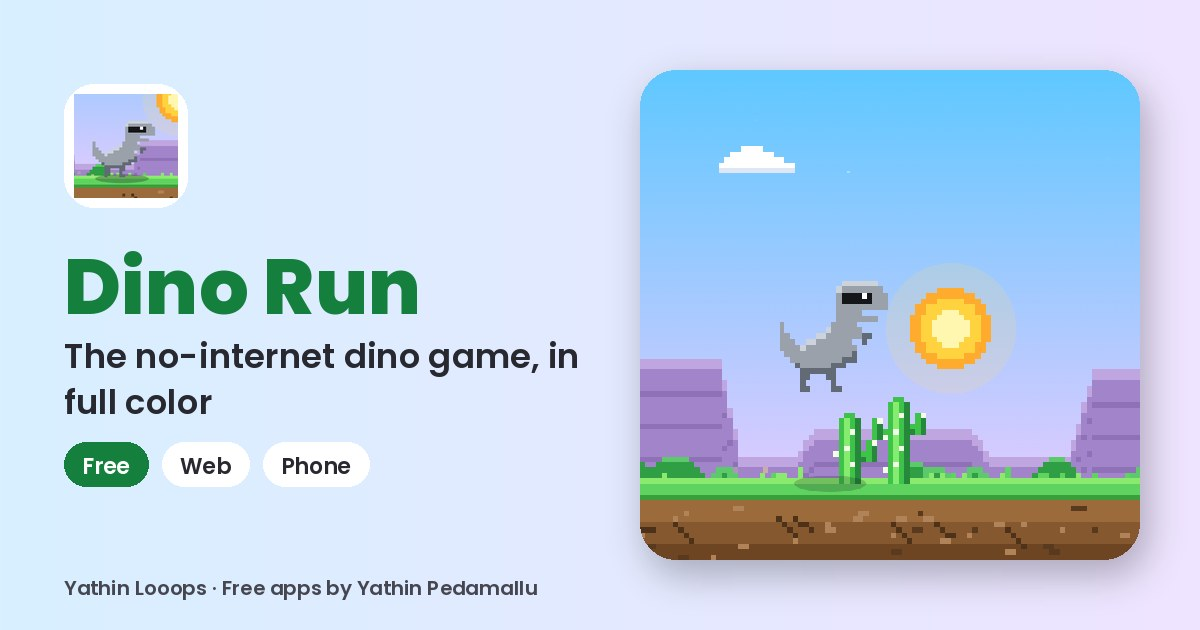
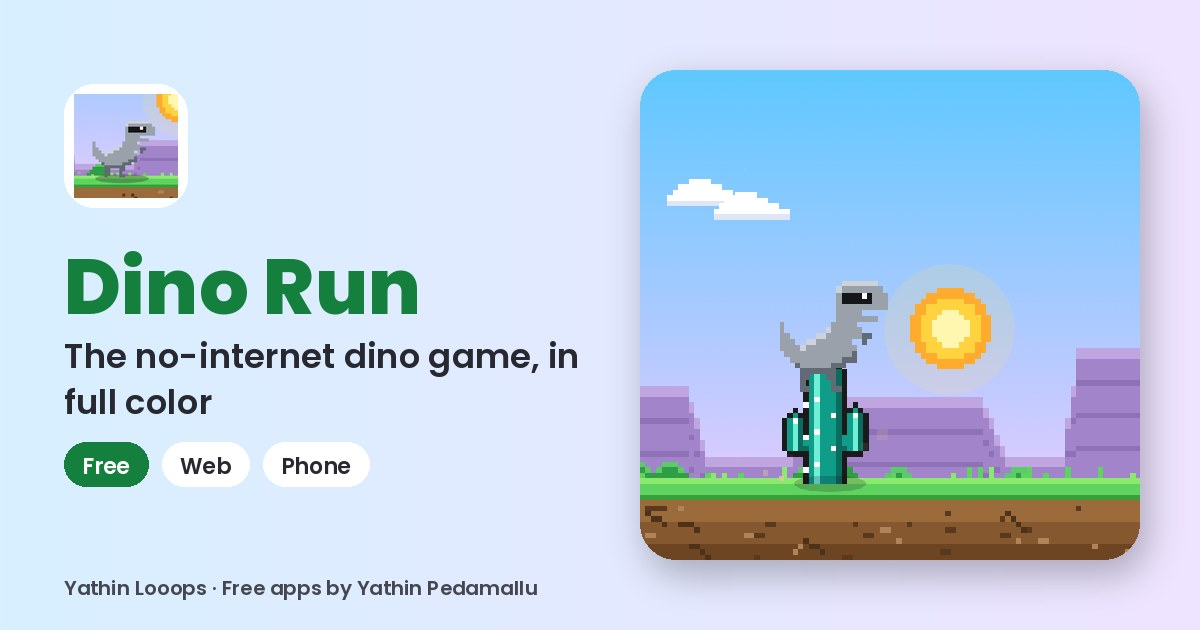
Dino Run: bigger dino explosion, teal outlined cacti, refreshed pictures

diff --git a/dinorun/index.html b/dinorun/index.html
@@ -177,7 +177,7 @@ const BB=[[{x:0,y:8,w:16,h:8},{x:6,y:14,w:44,h:6},{x:22,y:2,w:10,h:12}],[{x:0,y:
 
 function makeCactus(h,tw,nArms,flower){
   const c=document.createElement('canvas'),w=tw+8;c.width=w;c.height=h;const x=c.getContext('2d');
-  const G='#3fc24a',D='#26883a',L='#86ec6f',SP='#f2ffe6',tx=4,boxes=[];
+  const G='#0f9d8a',D='#0a6b5e',L='#6ff0d6',SP='#ffffff',tx=4,boxes=[],armSp=[];
   const col=(px,py,pw,ph)=>{x.fillStyle=G;x.fillRect(px,py,pw,ph);x.fillStyle=D;x.fillRect(px+pw-1,py,1,ph);if(pw>2){x.fillStyle=L;x.fillRect(px+1,py+1,1,ph-1);}x.clearRect(px,py,1,1);x.clearRect(px+pw-1,py,1,1);};
   col(tx,0,tw,h);
   boxes.push({x:tx*2+1,y:2,w:tw*2-2,h:h*2-2});
@@ -187,14 +187,26 @@ function makeCactus(h,tw,nArms,flower){
     const vx=sd<0?tx-aw-1:tx+tw+1,cx=sd<0?vx:tx+tw;
     x.fillStyle=G;x.fillRect(cx,ay,aw+1,aw);x.fillStyle=D;x.fillRect(cx,ay+aw-1,aw+1,1);
     col(vx,ay-al,aw,al+aw);
-    x.fillStyle=SP;x.fillRect(vx+(aw>>1),ay-al+1,1,1);
     const ax0=sd<0?vx:tx+tw,ax1=sd<0?tx:vx+aw;
     boxes.push({x:ax0*2+1,y:(ay-al)*2+1,w:(ax1-ax0)*2-2,h:(al+aw)*2-2});
+    armSp.push([vx+(aw>>1),ay-al+1]);
   }
-  x.fillStyle=SP;
+  /* body silhouette mask, taken before spines so the outline hugs the body */
+  const mask=x.getImageData(0,0,w,h).data;
+  x.fillStyle=SP;for(const [sx,sy] of armSp)x.fillRect(sx,sy,1,1);
   for(let y=3;y<h-1;y+=3){const g=(y/3|0)%2;x.fillRect(tx+(g?tw-2:1),y,1,1);if(y%6===0)x.fillRect(g?tx+tw:tx-1,y+1,1,1);}
   if(flower){x.fillStyle='#ff6fae';x.fillRect(tx+(tw>>1)-1,0,3,1);x.fillStyle='#ffd23f';x.fillRect(tx+(tw>>1),0,1,1);}
-  c.boxes=boxes;return c;
+  /* draw copy padded 1px left/right/top, with a 1px near-black outline around the body */
+  const o=document.createElement('canvas');o.width=w+2;o.height=h+1;const ox=o.getContext('2d');
+  const op=(px,py)=>px>=0&&py>=0&&px<w&&py<h&&mask[(py*w+px)*4+3]>0;
+  ox.fillStyle='#1a1a1a';
+  for(let py=-1;py<h;py++)for(let px=-1;px<=w;px++){if(op(px,py))continue;
+    if(op(px-1,py)||op(px+1,py)||op(px,py-1)||op(px,py+1))ox.fillRect(px+1,py+1,1,1);}
+  ox.drawImage(c,1,1);
+  /* slightly lighter variant, blended in at night */
+  const l=document.createElement('canvas');l.width=o.width;l.height=o.height;const lx=l.getContext('2d');
+  lx.drawImage(c,1,1);lx.globalCompositeOperation='source-atop';lx.fillStyle='rgba(190,255,240,.28)';lx.fillRect(0,0,l.width,l.height);
+  c.boxes=boxes;c.o=o;c.lt=l;return c;
 }
 const SMALL=[],LARGE=[],SQUAT=[];
 for(let i=0;i<8;i++){SMALL.push(makeCactus(ri(13,16),4,ri(0,2)));LARGE.push(makeCactus(ri(20,24),6,ri(1,2)));}
@@ -321,6 +333,11 @@ const sfx={jump:()=>tone(520,.09,'square',.05,800),point:()=>{tone(880,.07,'squa
   look:()=>tone(330,.12,'square',.035,250),
   roar:()=>{tone(190,1.0,'sawtooth',.14,48);tone(96,1.1,'sawtooth',.12,36);noise(.9,.3,900,120,'lowpass');},
   vanish:()=>{tone(1100,.3,'square',.04,180);noise(.35,.12,3200,700);},
+  xboom:()=>{if(muted||!AC)return;try{if(!NB){NB=AC.createBuffer(1,AC.sampleRate*2,AC.sampleRate);const a=NB.getChannelData(0);for(let i=0;i<a.length;i++)a[i]=Math.random()*2-1;}
+    const t=AC.currentTime,s=AC.createBufferSource(),fl=AC.createBiquadFilter(),g=AC.createGain();s.buffer=NB;fl.type='lowpass';fl.frequency.setValueAtTime(5000,t);fl.frequency.exponentialRampToValueAtTime(90,t+1.3);
+    g.gain.setValueAtTime(1.1,t);g.gain.exponentialRampToValueAtTime(.25,t+.25);g.gain.exponentialRampToValueAtTime(.0001,t+1.4);s.connect(fl);fl.connect(g);g.connect(AC.destination);s.start(t);s.stop(t+1.45);
+    const o=AC.createOscillator(),og=AC.createGain();o.type='sine';o.frequency.setValueAtTime(120,t);o.frequency.exponentialRampToValueAtTime(30,t+.7);og.gain.setValueAtTime(.0001,t);og.gain.exponentialRampToValueAtTime(.9,t+.01);og.gain.exponentialRampToValueAtTime(.0001,t+.9);o.connect(og);og.connect(AC.destination);o.start(t);o.stop(t+.95);}catch(e){}
+    tone(220,.25,'square',.09,50);noise(.5,.35,2400,400);},
   mega:()=>{sfx.boom();noise(2.6,.9,600,30,'lowpass');tone(55,2.2,'sine',.5,18);tone(140,.5,'square',.08,40);}};
 let rumbleN=null;
 function rumble(dur){if(muted||!AC)return;try{
@@ -352,6 +369,9 @@ muteBtn.addEventListener('click',e=>{e.stopPropagation();try{window.focus();}cat
 let state='start',paused=false,hi=0,score=0,playTime=0,cycleT=0,tier=0,speed=6,eff=6,boostKey=false,boostTouch=false,duckKey=false,duckTouch=false,jumpHeld=false;
 let obstacles=[],parts=[],clouds=[],meteors=[],nextIn=90,gOff=0,bOff=0,hOff=0,T=0,wipe=1,banner=null,blinkT=0,lastMile=0,overAt=0,winAt=0;
 let flash=0,shake=0,lightT=5,bolt=null,ct=0,nightForce=0,csFired={},connA=0,speedLines=[],rings=[];
+/* dino explosion: xb holds its clock; XB is how much later every beat after it runs */
+let xb=null;const XB=.4;
+function hn(i,j,k){const s=Math.sin(i*127.1+j*311.7+k*74.7)*43758.5453;return s-Math.floor(s);}
 const d={y:0,vy:0,air:false,released:true,anim:0,sq:0,dustT:0,look:0,gone:false};
 for(let i=0;i<4;i++)clouds.push({x:rnd(0,W),y:rnd(12,70)});
 let doom=0,doomOn=false,ash=[],smoke=[],dclouds=[];
@@ -360,7 +380,7 @@ function doomBegin(){if(doomOn)return;doomOn=true;ash=[];smoke=[];
   for(let i=0;i<60;i++)ash.push({x:rnd(0,W),y:rnd(0,GY+20),vx:rnd(-.5,-.1),vy:rnd(.2,.6),e:Math.random()<.45,l:rnd(0,3),m:rnd(5,8),ph:rnd(0,6)});
   ac();ambStart();}
 
-function resetRun(){score=0;playTime=0;cycleT=0;tier=0;speed=6;obstacles=[];parts=[];meteors=[];rings=[];nextIn=90;banner=null;blinkT=0;lastMile=0;flash=0;shake=0;lightT=5;bolt=null;nightForce=0;connA=0;csFired={};stopRumble();
+function resetRun(){score=0;playTime=0;cycleT=0;tier=0;speed=6;obstacles=[];parts=[];meteors=[];rings=[];nextIn=90;banner=null;blinkT=0;lastMile=0;flash=0;shake=0;lightT=5;bolt=null;nightForce=0;connA=0;csFired={};stopRumble();xb=null;
   doom=0;doomOn=false;ash=[];smoke=[];ambStop();
   Object.assign(d,{y:0,vy:0,air:false,released:true,anim:0,sq:0,look:0,gone:false});againBtn.style.display='none';}
 function startRun(){resetRun();state='run';wipe=0;}
@@ -501,11 +521,24 @@ function update(f,sec){
     fire('down',5.6,()=>sfx.look());
     fire('roar',6.4,()=>{sfx.roar();shake=.6;for(let i=0;i<14;i++)puff(86,GY-24,pick(['#ffffff','#dfe6f5','#cdd3da']),rnd(1,3.5),rnd(-2,.3),rnd(.3,.7),rnd(2,3));});
     if(ct>6.4&&ct<7.3)shake=Math.max(shake,.3);
-    fire('vanish',8.4,()=>{d.gone=true;sfx.vanish();
-      DT.concat(LEGS[0]).forEach((row,j)=>{for(let i=0;i<row.length;i++){if(row[i]==='.'||Math.random()<.35)continue;
-        parts.push({x:50+i*2,y:GY+1-38+j*2,vx:(i-11)*.09+rnd(-.9,.9),vy:rnd(-2,-.2),l:0,m:rnd(.5,1.2),s:2,c:pick(['#9aa1ab','#626a75','#cdd3da','#7d848e']),g:.04});}});});
+    fire('vanish',8.4,()=>{d.gone=true;sfx.xboom();xb={t:0};flash=.35;shake=.6;
+      const cx=72,cy=GY-19;
+      /* grey dino chunks, three per body pixel */
+      DT.concat(LEGS[0]).forEach((row,j)=>{for(let i=0;i<row.length;i++){const ch=row[i];if(ch==='.'||ch==='k'||ch==='w')continue;
+        for(let n=0;n<3;n++){const a=rnd(0,Math.PI*2),v=rnd(2,7.5);
+          parts.push({x:50+i*2,y:GY+1-38+j*2,vx:Math.cos(a)*v+(i-11)*.12,vy:Math.sin(a)*v-rnd(1.5,4),l:0,m:rnd(1,2.2),s:pick([2,2,3,4]),c:pick(['#9aa1ab','#626a75','#cdd3da','#7d848e']),g:.16});}}});
+      /* a few chunks arcing high across the screen */
+      for(let i=0;i<28;i++)parts.push({x:cx+rnd(-14,14),y:cy+rnd(-12,12),vx:rnd(-5,9),vy:rnd(-12,-8),l:0,m:rnd(2.4,3.2),s:pick([3,4]),c:pick(['#9aa1ab','#626a75','#cdd3da']),g:.17});
+      /* fiery sparks */
+      for(let i=0;i<220;i++){const a=rnd(0,Math.PI*2),v=rnd(3,11);
+        parts.push({x:cx+rnd(-8,8),y:cy+rnd(-8,8),vx:Math.cos(a)*v,vy:Math.sin(a)*v-rnd(0,3),l:0,m:rnd(.4,1.2),s:pick([2,2,3]),c:pick(['#ffffff','#fff3b0','#ffde59','#ffb02e','#ff8c1a','#ff3d1a']),g:.09});}
+      /* sunglasses pixels, tumbling */
+      for(let i=0;i<6;i++)parts.push({x:76+rnd(0,10),y:GY-30+rnd(0,4),vx:rnd(-3,5),vy:rnd(-10,-6),l:0,m:rnd(2.2,3),s:3,c:'#15161a',g:.18,tb:rnd(0,6)});});
+    if(xb){xb.t+=sec;
+      if(xb.t>.45&&xb.t<1.3&&Math.random()<.8*f)puff(72+rnd(-34,34),GY-19-rnd(0,50),pick(['#3a3448','#4b4458','#5c5568','#6e6878']),rnd(-.6,.6),-rnd(.4,1.2),rnd(.9,1.6),rnd(4,7));
+      if(xb.t>2.4)xb=null;}
     /* mega meteoroid */
-    fire('mega',9.2,()=>{meteors.push({mega:true,t:0,sx:W+90,sy:-200,tx:80,ty:GY-40,x:W+90,y:-200});rumble(1.6);});
+    fire('mega',9.2+XB,()=>{meteors.push({mega:true,t:0,sx:W+90,sy:-200,tx:80,ty:GY-40,x:W+90,y:-200});rumble(1.6);});
     for(const m of meteors){
       if(m.mega){m.t+=sec/1.6;const u=Math.min(1,m.t),e=Math.pow(u,1.5);m.x=m.sx+(m.tx-m.sx)*e;m.y=m.sy+(m.ty-m.sy)*e;
         if(!m.hit){for(let i=0;i<5;i++)puff(m.x+rnd(-45,45),m.y+rnd(-35,35),pick(['#fff3b0','#ffde59','#ff8c1a','#ff3d1a']),rnd(1,3.5),rnd(-2.2,-.4),rnd(.3,.8),rnd(2,5));
@@ -519,8 +552,8 @@ function update(f,sec){
         if(!m.hit)puff(m.x+rnd(0,6)*m.sz,m.y+rnd(0,4)*m.sz,pick(['#ffde59','#ff8c1a','#ff3d1a']),rnd(.5,1.5),rnd(-1,-.3),rnd(.25,.6),rnd(2,3));}
     }
     meteors=meteors.filter(m=>!m.mega?m.y<GY:!m.hit);
-    if(ct>11.6)connA=Math.min(1,connA+sec);
-    if(ct>=12.9)toWin();
+    if(ct>11.6+XB)connA=Math.min(1,connA+sec);
+    if(ct>=12.9+XB)toWin();
   }else if(state==='win'){
     for(let i=0;i<2;i++){const p={x:rnd(0,W),y:-4,vx:rnd(-.6,.6),vy:rnd(.8,1.8),l:0,m:4,s:rnd(2,3),c:pick(['#ff5a8a','#ffd23f','#7dff8a','#5ec8ff','#c08bff','#ff9a1f']),g:.01};parts.push(p);}
   }
@@ -639,12 +672,38 @@ function drawDino(){
   ctx.scale(sx,sy);ctx.drawImage(img,-w/2,-h,w,h);ctx.restore();
 }
 function drawObstacles(){
+  const nl=state==='start'?0:Math.max(cyc().n,nightForce);
   for(const o of obstacles){
-    if(o.k==='c')for(const p of o.ps)ctx.drawImage(p.s,Math.round(o.x+p.dx),p.y,p.s.width*2,p.s.height*2);
+    if(o.k==='c')for(const p of o.ps){const s=p.s,x=Math.round(o.x+p.dx)-2,y=p.y-2,w=s.o.width*2,h=s.o.height*2;
+      ctx.drawImage(s.o,x,y,w,h);
+      if(nl>0){ctx.globalAlpha=nl;ctx.drawImage(s.lt,x,y,w,h);ctx.globalAlpha=1;}}
     else{const b=BIRD[Math.floor(o.fl*2)%2];ctx.drawImage(b,Math.round(o.x),o.y,52,30);}
   }
 }
-function drawParts(){for(const p of parts){ctx.globalAlpha=Math.max(0,1-p.l/p.m);ctx.fillStyle=p.c;ctx.fillRect(Math.round(p.x),Math.round(p.y),p.s,p.s);}ctx.globalAlpha=1;}
+function drawParts(){for(const p of parts){ctx.globalAlpha=Math.max(0,1-p.l/p.m);ctx.fillStyle=p.c;
+  if(p.tb!==undefined){const ph=Math.floor(p.l*14+p.tb)%4,x=Math.round(p.x),y=Math.round(p.y);
+    if(ph%2===0)ctx.fillRect(x-p.s,y,p.s*2,p.s);else ctx.fillRect(x,y-p.s,p.s,p.s*2);
+    if(ph===0){ctx.fillStyle='#ffffff';ctx.fillRect(x,y,1,1);}continue;}
+  ctx.fillRect(Math.round(p.x),Math.round(p.y),p.s,p.s);}ctx.globalAlpha=1;}
+function drawBlast(){if(!xb||state!=='cutscene')return;const t=xb.t,cx=72,cy0=GY-19;
+  /* white-yellow core flash */
+  if(t<.3){const a=1-t/.3,r=24+110*t/.3,g=ctx.createRadialGradient(cx,cy0,0,cx,cy0,r);g.addColorStop(0,`rgba(255,255,255,${a})`);g.addColorStop(.4,`rgba(255,246,170,${a*.85})`);g.addColorStop(1,'rgba(255,200,60,0)');ctx.fillStyle=g;ctx.fillRect(cx-r,cy0-r,r*2,r*2);}
+  /* pixel fireball, growing to ~3x the dino's height, then cooling into smoke */
+  if(t<1.4){const P=4,grow=1-Math.pow(1-Math.min(1,t/.35),3),R=10+47*grow+6*Math.max(0,t-.35),cy=cy0-R*.35,h=Math.min(1,t/1),al=t<.9?1:Math.max(0,1-(t-.9)/.5),fr=Math.floor(t*14);
+    const hot=['#ffffff','#fff3b0','#ffde59','#ffb02e','#ff8c1a','#ff3d1a','#b3261a'],cool=['#8a8494','#6e6878','#5c5568','#4b4458','#3a3448'];
+    ctx.globalAlpha=al;const n=Math.ceil(R*1.25/P);
+    for(let j=-n;j<=n;j++)for(let i=-n;i<=n;i++){const x=cx+i*P,y=Math.round(cy+j*P);if(y>GY+2)continue;
+      const dd=Math.hypot(i*P,j*P)/R,rr=1+(hn(i,j,fr)-.5)*.45;if(dd>rr)continue;
+      const q=Math.min(.999,dd/rr),shift=h*1.6,k=q+shift+hn(j,i,fr)*.15;
+      ctx.fillStyle=k<1?hot[Math.min(6,Math.floor((q+h*.8)*7))]:cool[Math.min(4,Math.floor((k-1)*3.2))];ctx.fillRect(Math.round(x-P/2),y,P,P);}
+    ctx.globalAlpha=1;}
+  /* pixel shockwave ring */
+  if(t<.75){const u=t/.75,r=12+260*(1-Math.pow(1-u,2)),a=1-u,P=3,n=Math.max(24,Math.floor(r*2*Math.PI/(P*2)));
+    for(let i=0;i<n;i++){const an=i/n*Math.PI*2,x=Math.round((cx+Math.cos(an)*r)/P)*P,y=Math.round((cy0+Math.sin(an)*r*.8)/P)*P;if(y>GY+2)continue;
+      ctx.globalAlpha=a;ctx.fillStyle=i%3?'#fff3b0':'#ff8c1a';ctx.fillRect(x,y,P,P);
+      ctx.globalAlpha=a*.5;ctx.fillStyle='#ffffff';const r2=r*.86,x2=Math.round((cx+Math.cos(an)*r2)/P)*P,y2=Math.round((cy0+Math.sin(an)*r2*.8)/P)*P;if(y2<=GY+2&&i%2===0)ctx.fillRect(x2,y2,P,P);}
+    ctx.globalAlpha=1;}
+}
 function drawMeteors(){
   for(const m of meteors){if(m.hit)continue;
     if(m.mega){const w=154,h=126,ux=m.sx-m.tx,uy=m.sy-m.ty,L=Math.hypot(ux,uy),nx=ux/L,ny=uy/L,px=-ny,py=nx,tl=320;
@@ -678,16 +737,20 @@ function render(){
   }
   ctx.save();
   if(shake>0)ctx.translate(Math.round(rnd(-1,1)*shake*6),Math.round(rnd(-1,1)*shake*6));
+  if(xb&&state==='cutscene'&&xb.t<.6){const k=Math.pow(1-xb.t/.6,1.5)*12;ctx.translate(Math.round(rnd(-1,1)*k),Math.round(rnd(-1,1)*k));}
   drawWorld();drawObstacles();
   for(const s of speedLines){ctx.fillStyle=`rgba(255,255,255,${s.a*.7})`;ctx.fillRect(Math.round(s.x-s.l),Math.round(s.y),Math.round(s.l),2);}
-  drawDino();drawParts();drawMeteors();
+  drawDino();drawBlast();drawParts();drawMeteors();
   for(const r of rings){if(r.r<=0)continue;const a=Math.min(1,r.a);ctx.lineWidth=r.w;
     ctx.strokeStyle=`rgba(255,236,190,${a})`;ctx.beginPath();ctx.ellipse(r.x,GY,r.r,r.r*.22,0,0,7);ctx.stroke();
     ctx.strokeStyle=`rgba(255,160,60,${a*.6})`;ctx.beginPath();ctx.arc(r.x,GY,r.r*.75,Math.PI,2*Math.PI);ctx.stroke();}
   if(state==='cutscene'&&ct>=6.4&&ct<7.6){const a=ct-6.4,k=1-Math.pow(1-Math.min(1,a/.25),3),sc=Math.max(1,Math.round(1+5*k));
     ctx.globalAlpha=a>1?Math.max(0,1-(a-1)/.2):1;txt('ROAR!',Math.round(100+70*k+rnd(-1,1)),Math.round(112-62*k+rnd(-1,1)),sc,'#9cff3a',1,'#14210a');ctx.globalAlpha=1;}
+  if(state==='cutscene'&&ct>=8.4&&ct<9.2){const a=ct-8.4,u=Math.min(1,a/.14),k=u<1?1.25*u:1.25-.25*Math.min(1,(a-.14)/.1),sc=Math.max(1,Math.round(8*k)),bx=Math.round(150+rnd(-2,2)*(1-a)),by=Math.round(70-sc*2.5+rnd(-2,2)*(1-a));
+    ctx.globalAlpha=a>.62?Math.max(0,1-(a-.62)/.18):1;
+    txt('BOOM!',bx,by,sc,'#ff8c1a',1,'#2a0a00');txt('BOOM!',bx,by-Math.max(1,Math.round(sc/3)),sc,'#ffde59',1);ctx.globalAlpha=1;}
   ctx.restore();
-  if(state==='cutscene'&&ct>=9.2&&ct<10.8&&Math.floor((ct-9.2)*6)%2===0){ctx.fillStyle='rgba(255,30,60,.22)';ctx.fillRect(0,44,W,32);txt('MEGA METEOROID',W/2,50,4,'#ff3b5c',1,'#1a0710');}
+  if(state==='cutscene'&&ct>=9.2+XB&&ct<10.8+XB&&Math.floor((ct-9.2-XB)*6)%2===0){ctx.fillStyle='rgba(255,30,60,.22)';ctx.fillRect(0,44,W,32);txt('MEGA METEOROID',W/2,50,4,'#ff3b5c',1,'#1a0710');}
   if(connA>0&&state==='cutscene'){ctx.globalAlpha=connA;ctx.save();ctx.shadowColor='#7dff8a';ctx.shadowBlur=14*S;ctx.drawImage(WIFI_G,W/2-33,14,66,54);ctx.restore();txt('CONNECTED',W/2,78,4,'#7dff8a',1,'#0b2a10');ctx.globalAlpha=1;}
   if(flash>0){ctx.fillStyle=`rgba(255,255,255,${flash})`;ctx.fillRect(0,0,W,H);}
   if(state==='run'||state==='over')hud();
